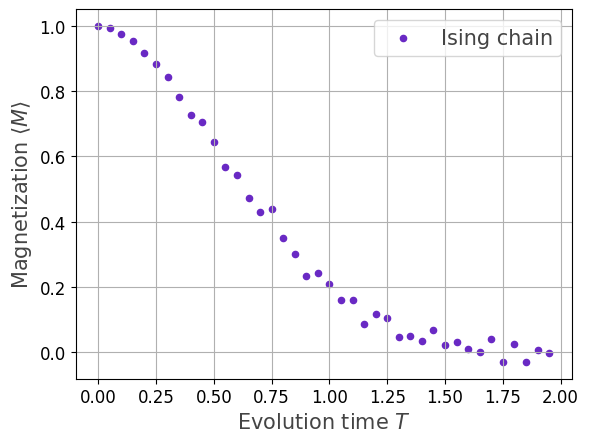
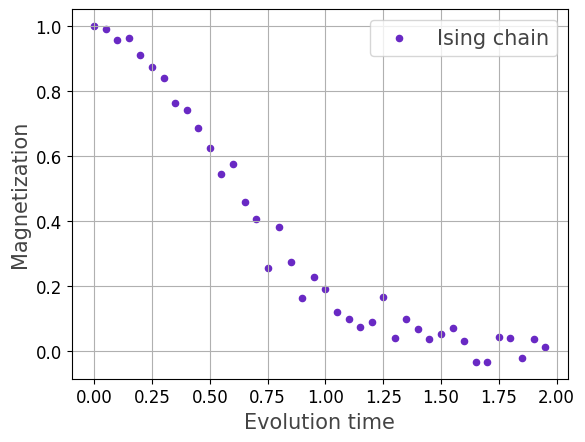
Rework qdrift: changed inteface to match trotterization; use numpy vectorization instead of python loops; updated documentation

diff --git a/src/qrisp/operators/qubit/qubit_operator.py b/src/qrisp/operators/qubit/qubit_operator.py
@@ -1935,15 +1935,14 @@ class QubitOperator(Hamiltonian):
         return U
 
     #
-    # Qdrift
+    # QDrift
     #
 
-    def qdrift(self, qv, t, N, use_arctan= False ):
-
+    def qdrift(self, forward_evolution=True):
         r"""
-        This algorithm simulates the time evolution of a quantum state under a Hamiltonian using the **QDRIFT** (Quantum Stochastic Drift Protocol) algorithm.
+        This algorithm simulates the time evolution of a quantum state under a Hamiltonian using the **QDrift** (Quantum Stochastic Drift Protocol) algorithm.
 
-        QDRIFT approximates the exact time-evolution operator
+        QDrift approximates the exact time-evolution operator
 
         .. math::
             U(t) = e^{-i H t}, \qquad 
@@ -1959,72 +1958,56 @@ class QubitOperator(Hamiltonian):
         .. math::
             p_j = \frac{|h_j|}{\lambda}, \qquad 
             \lambda = \sum_j |h_j|.
+        
+        Each sampled exponential uses a fixed time-step parameter 
+        
+        .. math:: 
+            \tau = \frac{\lambda t}{N}.
 
-        The number of samples :math:`N` controls the overall simulation accuracy. The expected diamond-norm error of the QDRIFT channel satisfies : 
-
-        .. math::
-            \epsilon \le \frac{2 \lambda^2 t^2}{N},
-
-        so that achieving a target precision :math:`\epsilon` requires
+        The number of samples :math:`N` controls the overall simulation accuracy. 
+        Achieving a target precision :math:`\epsilon` requires
 
         .. math::
             N = \mathcal{O}\!\left( \frac{\lambda^2 t^2}{\epsilon} \right).
 
-        Each sampled exponential uses a fixed time-step parameter
-
-        .. math::
-            \tau = \frac{\lambda t}{N},
-
-        or, if :code:`use_arctan=True`, a numerically stable variant
-
-        .. math::
-            \tau = \arctan\!\left( \frac{\lambda t}{N} \right).
-
-        QDRIFT is particularly suited for large quantum systems whose Hamiltonians can be decomposed into a sum of local Pauli terms. 
+        QDrift is particularly suited for large quantum systems whose Hamiltonian are decomposed into a sum of local Pauli terms. 
 
         Parameters
         ----------
-        H : :class:`QubitOperator`
-            Hamiltonian to simulate, written as 
-            :math:`H = \sum_j h_j P_j`, where each :math:`P_j`
-            is a tensor product of Pauli operators.
-        qv : :class:`QuantumVariable`
-            Quantum state to which the simulated evolution is applied.
-        t : float
-            Total simulation time :math:`t`.
-        N : int
-            Number of random samples (the number of exponentials in the product).
-            Larger values yield higher accuracy at the cost of more gates.
-        use_arctan : bool, optional
-            If ``True``, uses :math:`\tau = \arctan(\lambda t / N)`
-            instead of linear scaling. This can improve numerical stability
-            for large :math:`\lambda t`. Default is ``False``.
+        forward_evolution : bool, optional
+            If set to False $U(t)^\dagger = e^{itH}$ will be executed (usefull for quantum phase estimation). The default is ``True``.
 
         Returns
         -------
-        qv : :class:`QuantumVariable`
-            The evolved quantum state after applying the QDRIFT approximation.
+        callable
+            A Python function that implements QDrift.
+            This function receives the following arguments:
+
+            * qarg : :ref:`QuantumVariable`
+                The quantum argument.
+            * t : float, optional
+                The evolution time $t$. The default is 1.
+            * samples : int, optional
+                The number of random samples $N$ (the number of exponentials in the product). The default is 100.
+                Larger values yield higher accuracy at the cost of higher runtime.
+            * iter : int, optional
+                The number of iterations the unitary $U(t,N)$ is applied. The default is 1.
         
-            
         Examples
         --------
             
-        Example usage of the qdrift function to simulate a quantum system governed by an Ising Hamiltonian on a chain graph.
-
-
         Below is an example usage of the :func:`qdrift` function to simulate a quantum system governed
         by an Ising Hamiltonian on a one-dimensional chain graph.
 
         In this example, we build a chain graph, define an Ising Hamiltonian with given coupling and
         magnetic field strengths, and compute the magnetization of the system over a range of evolution
-        times using the QDRIFT algorithm. The results are compared to a first-order Trotterization
-        simulation to visualize their qualitative agreement.
+        times using the QDrift algorithm.
 
-        .. code-block:: python
+        ::
 
-            import numpy as np
             import matplotlib.pyplot as plt
             import networkx as nx
+            import numpy as np
             from qrisp import QuantumVariable
             from qrisp.operators import X, Z, QubitOperator
 
@@ -2045,31 +2028,32 @@ class QubitOperator(Hamiltonian):
             # Simulation setup
             G = generate_chain_graph(6)
             H = create_ising_hamiltonian(G, J=1.0, B=1.0)
+            U = H.qdrift()
             M = create_magnetization(G)
-            T_values = np.arange(0, 2, 0.05)
-            precision_expectation_value = 0.001
 
             # Choose N according to the theoretical scaling 
-            # The QDRIFT bound suggests:  N ≈ ceil(2 λ² t² / ε), where λ = ∑|h_j|. Here we use this expression directly, although for many models it leads to very large circuits.
-            #
-            # The user is free to choose any alternative formula for N (e.g. N ∝ (λ t)²), depending on desired accuracy and runtime.
-            lam = sum(abs(coeff) for coeff in H.terms_dict.values())
-            epsilon = 0.001
-            N = int(np.ceil(2 * lam**2 * (max(T_values)**2) / epsilon))
+            # The Qdrift bound suggests:  N ≈ ceil(2 (λ t)² / ε), where λ = ∑|h_j|. 
+            # Here we use this expression directly, although for many models it leads to very large circuits.
+            # The user is free to choose any alternative formula for N, depending on desired accuracy and runtime.
+            lam = np.sum(np.abs(list(H.terms_dict.values())))
+            epsilon = 0.1
 
-            def psi(t, use_arctan=True):
+            def psi(t):
                 qv = QuantumVariable(G.number_of_nodes())
-                H.qdrift(qv, time_simulation=t, N=N, use_arctan=use_arctan)
+                N = int(np.ceil(2 * (lam * t) ** 2) / epsilon)
+                U(qv, t=t, samples=N)
+                return qv
 
             # Compute magnetization expectation 
+            T_values = np.arange(0, 2.0, 0.05)
             M_values = []
             for t in T_values:
-                ev_M = M.expectation_value(psi, precision_expectation_value)
+                ev_M = M.expectation_value(psi, precision=0.01)
                 M_values.append(float(ev_M(t)))
 
             plt.scatter(T_values, M_values, color='#6929C4', marker="o", linestyle="solid", s=20, label=r"Ising chain")
-            plt.xlabel(r"Evolution time $T$", fontsize=15, color="#444444")
-            plt.ylabel(r"Magnetization $\langle M \rangle$", fontsize=15, color="#444444")
+            plt.xlabel(r"Evolution time", fontsize=15, color="#444444")
+            plt.ylabel(r"Magnetization", fontsize=15, color="#444444")
             plt.legend(fontsize=15, labelcolor="#444444")
             plt.tick_params(axis='both', labelsize=12)
             plt.grid()
@@ -2087,51 +2071,37 @@ class QubitOperator(Hamiltonian):
 
         where :math:`\lambda = \sum_j |h_j|` and :math:`\epsilon` is the target diamond-norm precision.
 
-        While this choice guarantees the formal error bound from Random Compiler for Fast Hamiltonian Simulation, Physical Review Letters 123, 070503 (2019), it can produce
-        extremely large circuit depths (here on the order of hundreds of thousands of Pauli rotations),
-        making the simulation slow for dense Hamiltonians such as the Ising model.
+        While this choice guarantees the formal error bound from 
+        `Random Compiler for Fast Hamiltonian Simulation, Physical Review Letters 123, 070503 (2019) <https://journals.aps.org/prl/abstract/10.1103/PhysRevLett.123.070503>`_, 
+        it can produce extremely large circuit depths (here on the order of up to thousands of Pauli rotations).
 
-        QDRIFT is **not optimal** for Hamiltonians with many large coefficients (like the Ising chain),
+        QDrift is **not optimal** for Hamiltonians with many large coefficients (like the Ising chain),
         because the total weight :math:`\lambda` is high, leading to large :math:`N`.
         However, it is **highly efficient for sparse or weakly weighted Hamiltonians**
         where :math:`\lambda` is small—common in chemistry or local lattice models—
         making it a powerful tool for large-scale quantum simulations with bounded resources.
 
         """
-        coeffs = []
-        terms = []
-        # signs = []
+        O = self.hermitize().eliminate_ladder_conjugates()
 
-        coeffs = []
-        terms = []
-        for term, coeff in  self.terms_dict.items():
-            terms.append(term)
-            coeffs.append(coeff)
+        terms = list(O.terms_dict.keys())
+        coeffs = np.array(list(O.terms_dict.values()))
+        signs = np.sign(coeffs)
 
-        # Step 1
-        normalisation_factor = sum(abs(c) for c in coeffs)
-        if normalisation_factor == 0 or t == 0:
-            return []  
+        normalisation_factor = np.sum(np.abs(coeffs))
+        probs = np.abs(coeffs) / normalisation_factor 
 
-        # Step 3
-        tau = normalisation_factor * t / N
-        angle = np.arctan(tau) if use_arctan else tau
-
-        # Step 4
-        probs = [abs(c) / normalisation_factor for c in coeffs]
-
-        # Step 5
-        i = 0
         def sample(probs):
             return np.random.choice(range(len(probs)), p=probs)
+        
+        def U(qarg, t=1, samples=100, iter=1):
+            tau = normalisation_factor * t / np.maximum(samples, 1)
+            for _ in range(samples * iter):
+                j = sample(probs) 
+                terms[j].simulate(-tau * signs[j] * (-1) ** int(forward_evolution), qarg) 
 
-        while i < N:
-            i += 1  # Step 5a
-            j = sample(probs)  # Step 5b
-            terms[j].simulate(angle, qv)  # Step 5c
+        return U
             
-
-
     #
     # LCU
     #

diff --git a/tests/operators_tests/test_qdrift.py b/tests/operators_tests/test_qdrift.py
@@ -15,8 +15,9 @@
 * SPDX-License-Identifier: EPL-2.0 OR GPL-2.0 WITH Classpath-exception-2.0
 ********************************************************************************
 """
-import numpy as np
+
 import networkx as nx
+import numpy as np
 from qrisp import QuantumVariable
 from qrisp.operators import X, Z
 
@@ -37,16 +38,17 @@ def test_qdrift_ising_chain():
         return (1.0 / G.number_of_nodes()) * sum(Z(i) for i in G.nodes())
 
     # Simulation setup
-    N=1000
+    N = 100
     G = generate_chain_graph(6)
     H = create_ising_hamiltonian(G, J=1.0, B=1.0)
+    U = H.qdrift()
     M = create_magnetization(G)
-    T_values = np.arange(0, 2, 0.05)
+    T_values = np.arange(0, 1.0, 0.1)
 
-    # Define the state evolution function using QDRIFT
-    def psi(t, use_arctan=True):
+    # Define the state evolution function using QDrift
+    def psi(t):
         qv = QuantumVariable(G.number_of_nodes())
-        H.qdrift(qv, t, N=N, use_arctan=use_arctan)
+        U(qv, t, samples=N)
         return qv
 
     # Compute magnetization expectation values over time
@@ -55,4 +57,4 @@ def test_qdrift_ising_chain():
         ev_M = M.expectation_value(psi, precision=0.05)
         M_values.append(float(ev_M(t)))
 
-    assert M_values[0]-M_values[-1]>0.6
+    assert M_values[0]-M_values[-1]>0.5
